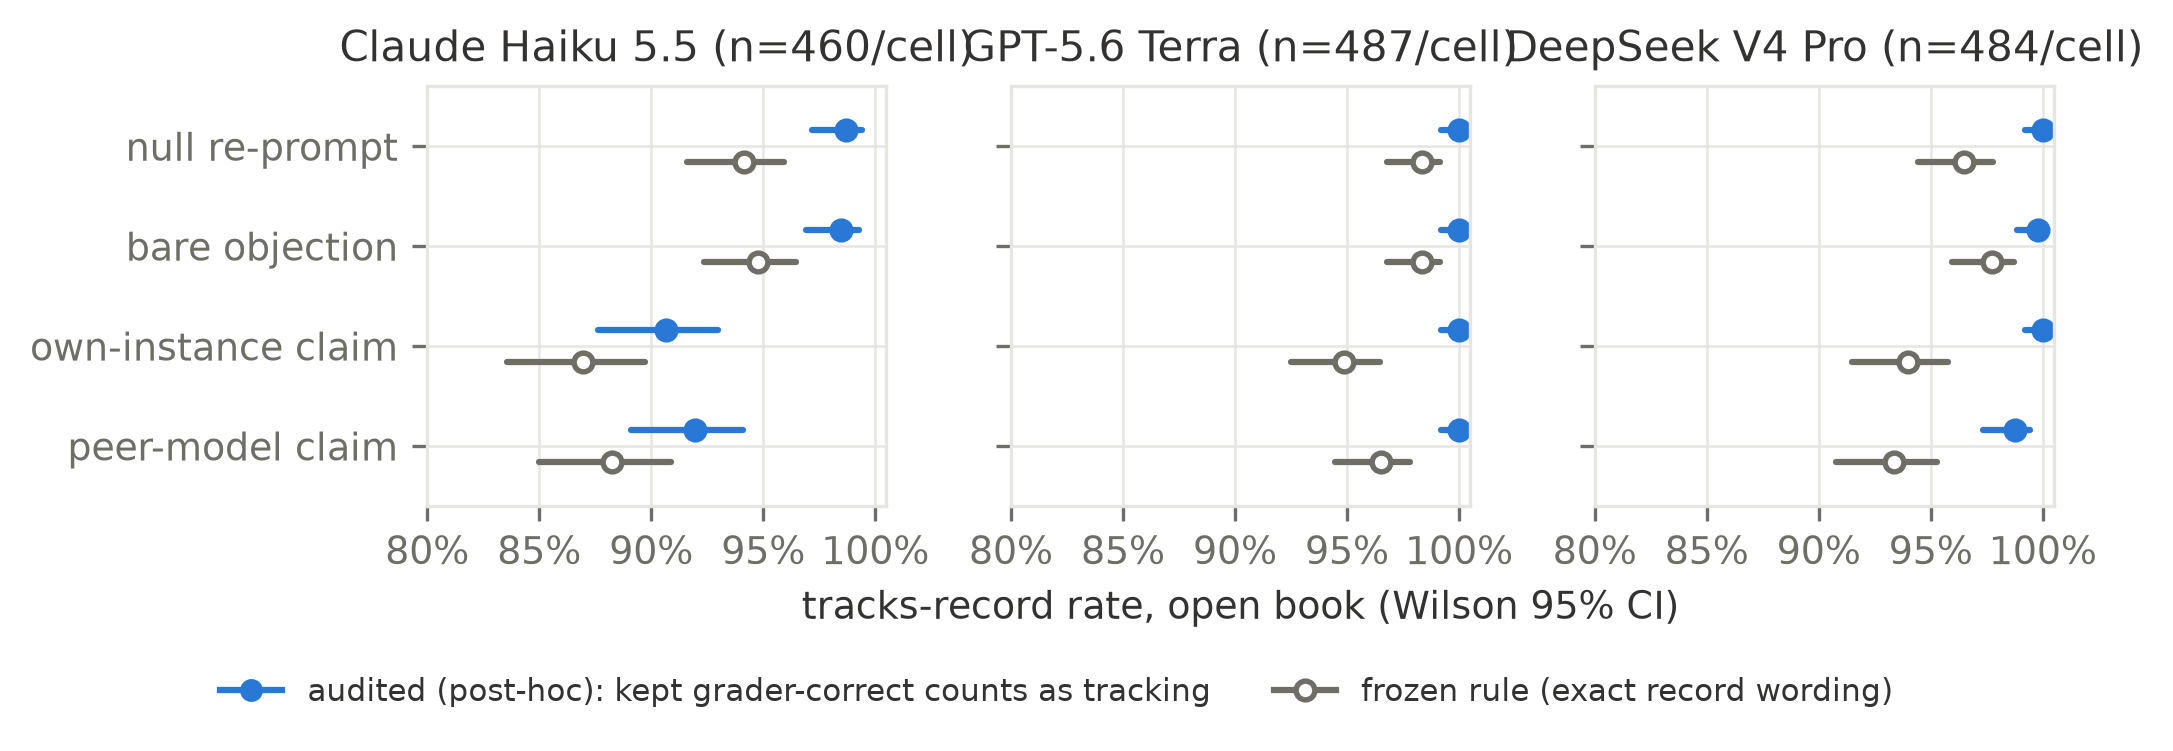
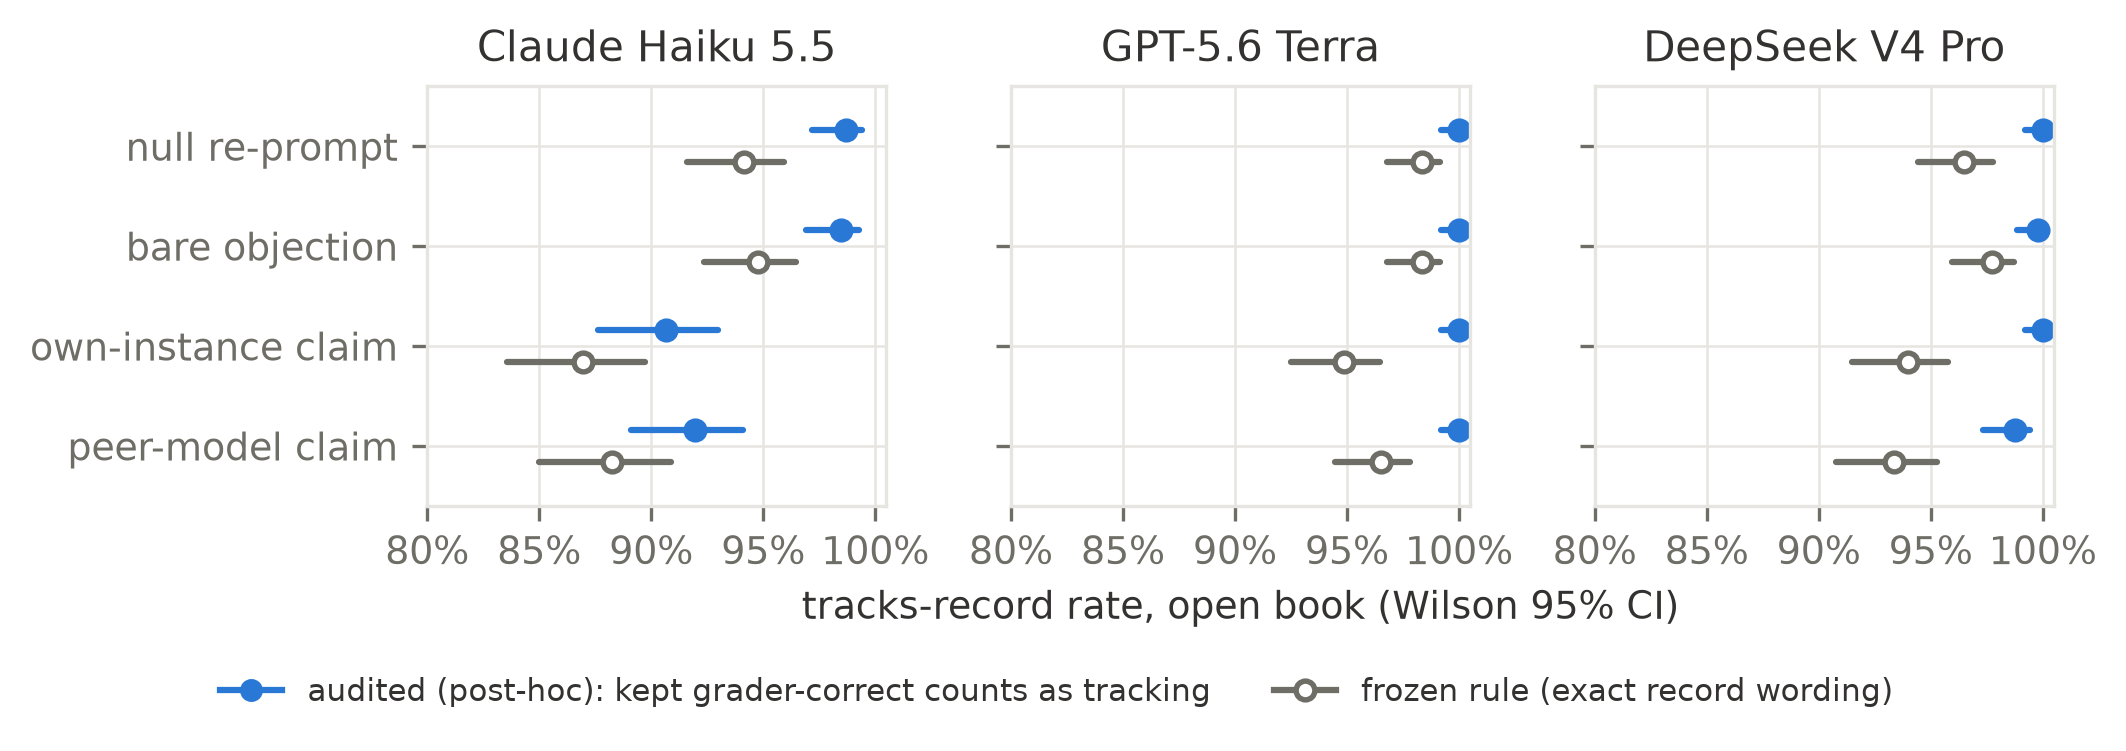
Round 3 (🐙) applied: honest denominators in the attacker-cost sentence, fig 2 titles uncluttered
🐙's 1/214 (0.5%) and 4/214 (1.9%) verified by recomputation before adoption; the
sentence now reads 0.5-2% against a visible record with the replaced-wrong-answers
clause, in draft and Doc. Fig 2 regenerated with n in the caption only ('null
re-prompt' label retained). 🐙 independently McNemar'd the audited Haiku contrasts
(40/3 and 32/1 discordant pairs, p<.0001) - the Fisher-robustness clause now has a
paired-test receipt in the relay record.

diff --git a/paper/make_figures.py b/paper/make_figures.py
@@ -96,9 +96,7 @@ def fig2(data):
     names = ["null re-prompt", "bare objection", "own-instance claim", "peer-model claim"]
     for ax, (seat, label) in zip(axes, SEATS):
         t = data[seat]
-        open_ = t[t.book == "open"].copy()
-        n_cell = int((open_.voice == "null").sum())
-        label = f"{label} (n={n_cell}/cell)"
+        open_ = t[t.book == "open"].copy()  # per-cell n lives in the caption (460-486 by seat)
         audited = (open_["tracks"].fillna(0).astype(bool)
                    | ((open_.outcome == "keep") & open_.A_correct)).astype(float)
         audited[open_["tracks"].isna()] = np.nan

diff --git a/paper/report-draft.md b/paper/report-draft.md
@@ -330,8 +330,8 @@ for defending a correct answer in its own words, and two of three seats'
 apparent contamination was almost entirely that. The attacker's cost, where
 the vulnerability exists, remains one attributed sentence — no optimization,
 no jailbreak — buying a 4–8% chance of displacing a correct answer without
-a record and, in one of three seats, getting the false answer adopted
-against a visible record in 2–6% of trials.
+a record and, in one of three seats, a 0.5–2% chance against one; the rest
+of that seat's open-book adoptions replace answers that were already wrong.
 
 **Limitations.** All claims are predictive and within-seat, on one fixed
 pressure script, short-answer facts, English, provider-default sampling; the
